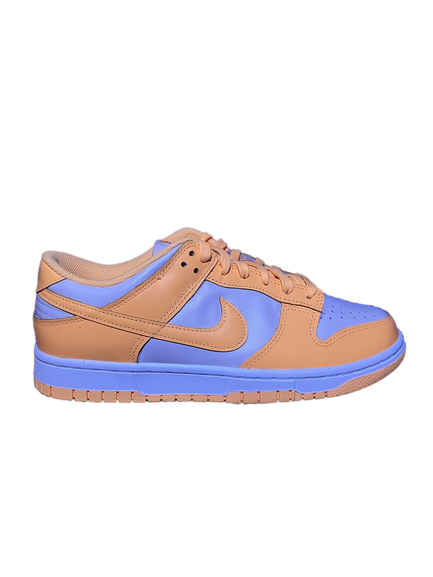
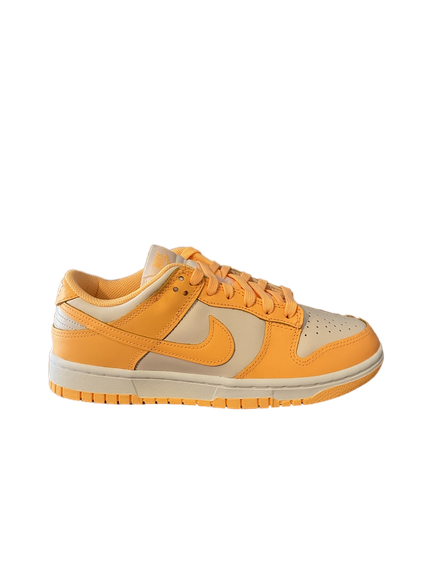
Fix Image Cream. Add Size Cream

Changed region(s): [[0.06, 0.3744, 0.9607, 0.7175]]

diff --git a/PeachCream.html b/PeachCream.html
@@ -104,7 +104,7 @@ $( document ).ready(function() {
                 <div class="row">
                     <div class="col-lg-6 col-md-12 col-12 px-5 mb-5">        
                         <h3 class="tm-text-primary mb-4 tm-footer-title" ><p style="color:#ff4433 ;"> Dunk Low Peach Cream </p></h3>
-                        <p>Taglie Disponibili: 41</p><p>Prezzo: 180€</p>
+                        <p>Taglie Disponibili: 38-38.5-39-40-41</p><p>Prezzo: 180€</p>
                         <p>Consegna su Napoli in giornata. Spedizioni in 24/48h </p>
                             Copyright 2020 Catalog-Z Company. All rights reserved.
                     </div>
